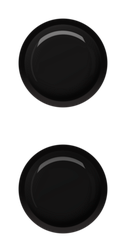
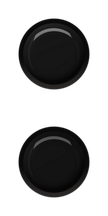
Push buttons with the green LED ring everywhere
CH1 / CH2 IN, STEREO LINK, POWER and DISPLAY are now round black push
buttons (ring lit = the left legend), and every push button (STEP,
STEEP, SHELF) has the green LED ring from Lindell STC-8, lit while the
button is in. Buttons are 12 px radius (as on STC-8) so the rings clear
the legends and dividers.

Claude-Session: https://claude.ai/code/session_01LNKzgqbrPXtjdBVktpSjEH

Changed region(s): [[0.1389, 0.0556, 0.8611, 0.4444], [0.1389, 0.5556, 0.8611, 0.9444]]

diff --git a/tools/render_assets.py b/tools/render_assets.py
@@ -57,7 +57,7 @@ PANEL = (2, 2, 1914, 368)
 
 LARGE_R = 37.0                  # gain / low cut
 SMALL_R = 23.5                  # freq / bandwidth / colour source / colour
-BUTTON_R = 15.0
+BUTTON_R = 12.0                 # push buttons (and the former toggles), each with a green LED ring
 TOGGLE_R = 18.5
 LAMP = (948.0, 245.0, 27.0)     # cx, cy, bezel radius
 
@@ -66,6 +66,7 @@ CH_X = {0: dict(lc=212.0, bands=[358.0, 506.0, 652.0, 800.0]),
 Y_GAIN, Y_FREQ, Y_BW = 80.0, 186.0, 313.0
 Y_LC, Y_COLSRC, Y_COLOUR = 80.0, 228.0, 313.0
 Y_STEP, Y_SHELF, Y_STEEP = 254.0, 147.0, 160.0
+# the switches are round black push buttons with the green LED ring (lit = the left legend)
 TOGGLES = {"ch1": (948.0, 48.0), "ch2": (948.0, 112.0), "link": (948.0, 176.0),
            "power": (948.0, 320.0), "display": (1801.0, 262.0)}
 # printed legends of each toggle: title, left position, right position
@@ -230,9 +231,10 @@ def misc_legends(L):
     # centre section
     for name, (x, y) in TOGGLES.items():
         title, left, right = TOGGLE_LEGENDS[name]
-        L.text(title, x, y - (30.0 if name == "power" else 27.0), TITLE * (0.9 if len(title) > 8 else 1.0))
-        L.text(left, x - 32.0 - 1.5 * (len(left) - 2), y, TITLE * 0.92)
-        L.text(right, x + 36.0, y, TITLE * 0.92)
+        L.text(title, x, y - (30.0 if name == "power" else 25.0), TITLE * (0.9 if len(title) > 8 else 1.0))
+        # side legends clear the button's LED ring (they scale with the word length)
+        L.text(left, x - 33.0 - 3.2 * (len(left) - 2), y, TITLE * 0.92)
+        L.text(right, x + 35.0 + 3.2 * (len(right) - 3), y, TITLE * 0.92)
     # dividers between the sections
     for x in DIVIDERS:
         L.line(x, 14.0, x, 356.0, 1.3)
@@ -370,8 +372,7 @@ def render_panel():
 
     large = [(k[3], k[4]) for k in knob_list() if k[5]]
     small = [(k[3], k[4]) for k in knob_list() if not k[5]]
-    buttons = [(b[2], b[3]) for b in button_list()]
-    toggles = list(TOGGLES.values())
+    buttons = [(b[2], b[3]) for b in button_list()] + list(TOGGLES.values())   # all push buttons
     for items, R_ in ((large, LARGE_R), (small, SMALL_R)):
         k = R_ / T.KNOB_R
         shadow += disc_shadow(items, R_ * 1.10, 10.0 * k, 9.0 * k, 0.16)   # short, soft pool
@@ -380,8 +381,6 @@ def render_panel():
         shadow += disc_shadow(items, R_ * 1.03, 0.6, 1.2, 0.55)
     shadow += disc_shadow(buttons, BUTTON_R * 1.05, 4.0, 4.0, 0.40)
     shadow += disc_shadow(buttons, BUTTON_R * 1.02, 0.8, 1.2, 0.45)
-    shadow += disc_shadow(toggles, TOGGLE_R * 0.80, 3.0, 2.5, 0.40)
-    shadow += disc_shadow(toggles, TOGGLE_R * 0.84, 0.5, 1.0, 0.40)
     shadow += disc_shadow([(LAMP[0], LAMP[1])], LAMP[2] * 0.97, 3.0, 3.0, 0.40)
     logos = list(T.place_logos(rgb, shadow))
     rgb *= (1 - 0.66 * np.clip(shadow, 0, 1))[..., None]
@@ -512,7 +511,7 @@ def render_small_knob_strip():
 # PUSH BUTTONS - glossy moulded caps in a hole in the panel, 2 frames:
 # 0 = out, 1 = pushed in (sits deeper: the hole's edge shades its top)
 # --------------------------------------------------------------------------
-BUTTON_FRAME = 126
+BUTTON_FRAME = int(round((BUTTON_R + 6.0) * SCALE)) * 2
 BUTTON_COLOURS = {"red": (196, 26, 20), "black": (24, 23, 23), "white": (226, 226, 220)}
 
 
@@ -555,6 +554,51 @@ def render_button_strips():
         for i in range(2):
             strip.paste(button_frame(colour, i == 1), (0, i * BUTTON_FRAME))
         strip.save(os.path.join(OUT, f"button_{colour}_strip.png"), optimize=True)
+
+
+# --------------------------------------------------------------------------
+# LED RING round every push button (as on Lindell STC-8), 2 frames: 0 = off, 1 = lit
+# --------------------------------------------------------------------------
+RING_R0, RING_R1 = BUTTON_R * 1.08, BUTTON_R * 1.26
+RING_FRAME = int(round((RING_R1 + 9.0) * SCALE)) * 2
+
+
+def ring_frame(lit, ss=4):
+    """the LED ring set into the panel round a push button: a frosted light-pipe,
+    dark smoked green when off, glowing green when the button is in"""
+    N = RING_FRAME * ss
+    c = (N - 1) / 2.0
+    yy, xx = np.mgrid[0:N, 0:N].astype(np.float32)
+    px = SCALE * ss                                     # px per photo px
+    r = np.hypot(xx - c, yy - c) / px                   # photo px
+    v = (yy - c) / px / RING_R1                         # -1 top .. +1 bottom
+    mid, half = 0.5 * (RING_R0 + RING_R1), 0.5 * (RING_R1 - RING_R0)
+    t = np.clip(1 - np.abs(r - mid) / half, 0, 1)       # 0 at the edges .. 1 on the centre line
+    ring = smoothstep(0.0, 0.35, t)
+    groove = smoothstep(0.0, 0.25, np.clip(1 - np.abs(r - mid) / (half + 0.8), 0, 1)) * (1 - ring)
+    if not lit:
+        col = np.dstack([28 + 10 * t, 42 + 16 * t, 34 + 11 * t])
+        col *= (1.0 - 0.35 * smoothstep(-0.2, -1.0, v))[..., None]               # shaded at the top lip
+        col += (14 * np.exp(-((r - (RING_R0 + 0.35 * half)) / 0.35) ** 2) * smoothstep(0.0, 0.9, v))[..., None]
+        alpha = np.clip(0.92 * ring + 0.30 * groove, 0, 1)
+        col = col * ring[..., None] + np.array([16, 16, 15], np.float32) * (1 - ring[..., None])
+    else:
+        core = t ** 1.6
+        col = 0.6 * np.dstack([40 + 150 * core, 215 + 40 * core, 105 + 120 * core])   # 40 % below full brightness
+        halo = ndimage.gaussian_filter(ring, 2.6 * px) * 1.9 + ndimage.gaussian_filter(ring, 0.9 * px) * 0.9
+        glow_a = np.clip(halo, 0, 1) * (1 - ring) * 0.75 * 0.6
+        alpha = np.clip(ring + glow_a, 0, 1)
+        glow_col = 0.6 * np.array([60, 255, 120], np.float32)
+        col = (col * ring[..., None] + glow_col * glow_a[..., None]) / np.maximum(alpha, 1e-4)[..., None]
+    img = T.to_img(col, alpha).resize((RING_FRAME, RING_FRAME), Image.LANCZOS)
+    return T.photo_finish(img, blur=0.35, grain=0.0, seed=7 + int(lit))
+
+
+def render_ring_strip():
+    strip = Image.new("RGBA", (RING_FRAME, RING_FRAME * 2))
+    for i in range(2):
+        strip.paste(ring_frame(i == 1), (0, i * RING_FRAME))
+    strip.save(os.path.join(OUT, "button_ring_strip.png"), optimize=True)
 
 
 
@@ -637,6 +681,7 @@ def write_layout_header():
         f"    constexpr float largeKnobR = {LARGE_R}f, smallKnobR = {SMALL_R}f;",
         f"    constexpr int buttonFrame = {BUTTON_FRAME};",
         f"    constexpr float buttonR = {BUTTON_R}f;",
+        f"    constexpr int ringFrame = {RING_FRAME};",
         f"    constexpr int toggleFrame = {T.TOGGLE_FRAME};",
         f"    constexpr float toggleR = {TOGGLE_R}f;",
         f"    constexpr int lampFrame = {T.LAMP_FRAME};",
@@ -689,8 +734,9 @@ if __name__ == "__main__":
     if "smallknob" in what:
         render_small_knob_strip(); print("small knob")
         render_small_knob_strip(); print("small knob")
+    if "all" in what or "small" in what or "buttons" in what:
+        render_button_strips(); render_ring_strip(); print("buttons + LED ring")
     if "all" in what or "small" in what:
-        render_button_strips(); print("buttons")
         T.render_toggle_strip(); print("toggle")
         T.render_lamp_strip(); print("lamp")
     write_layout_header()

diff --git a/Source/PluginEditor.cpp b/Source/PluginEditor.cpp
@@ -208,6 +208,8 @@ HeronEQAudioProcessorEditor::HeronEQAudioProcessorEditor (HeronEQAudioProcessor&
     buttonRed   = strip (BinaryData::button_red_strip_png, BinaryData::button_red_strip_pngSize, bf, bf, 2);
     buttonBlack = strip (BinaryData::button_black_strip_png, BinaryData::button_black_strip_pngSize, bf, bf, 2);
     buttonWhite = strip (BinaryData::button_white_strip_png, BinaryData::button_white_strip_pngSize, bf, bf, 2);
+    buttonRing  = strip (BinaryData::button_ring_strip_png, BinaryData::button_ring_strip_pngSize,
+                         layout::ringFrame, layout::ringFrame, 2);
     toggleStrip = strip (BinaryData::toggle_strip_png, BinaryData::toggle_strip_pngSize, tf, tf, 2);
     lampStrip   = strip (BinaryData::lamp_strip_png, BinaryData::lamp_strip_pngSize, lf, lf, 2);
 
@@ -228,7 +230,7 @@ HeronEQAudioProcessorEditor::HeronEQAudioProcessorEditor (HeronEQAudioProcessor&
     }
     for (const auto& t : layout::toggles)
     {
-        auto toggle = std::make_unique<FilmstripToggle> (toggleStrip);
+        auto toggle = std::make_unique<StripButton> (buttonBlack);       // ring lit = the left legend
         addAndMakeVisible (*toggle);
         if (juce::String (t.name) == "ch1") ch1Att = std::make_unique<ButtonAtt> (proc.apvts, ids::channelIn (0), *toggle);
         if (juce::String (t.name) == "ch2") ch2Att = std::make_unique<ButtonAtt> (proc.apvts, ids::channelIn (1), *toggle);
@@ -369,10 +371,31 @@ void HeronEQAudioProcessorEditor::paint (juce::Graphics& g)
         paintDisplay (g);
     }
 
+    for (auto& b : buttons) drawRing (g, b.info->x, b.info->y, b.button->getToggleState());
+    for (auto& t : toggles) drawRing (g, t.info->x, t.info->y, t.toggle->getToggleState());
+    ringState = currentRingState();
+
     const float lw = (float) layout::lampFrame / layout::assetScale;
     const auto lr = panelRect (layout::lampX, layout::lampY, lw, lw);
     const int lpx = juce::roundToInt (lr.getWidth() * ps);
     drawExact (g, lampStrip.frame (lampOn ? 1 : 0, lpx, lpx), lr.withSize ((float) lpx / ps, (float) lpx / ps));
+}
+
+void HeronEQAudioProcessorEditor::drawRing (juce::Graphics& g, float cx, float cy, bool lit)
+{
+    const float ps = pixelScale (g);
+    const float rw = (float) layout::ringFrame / layout::assetScale;
+    const auto r = panelRect (cx, cy, rw, rw);
+    const int px = juce::roundToInt (r.getWidth() * ps);
+    drawExact (g, buttonRing.frame (lit ? 1 : 0, px, px), r.withSizeKeepingCentre ((float) px / ps, (float) px / ps));
+}
+
+juce::uint64 HeronEQAudioProcessorEditor::currentRingState() const
+{
+    juce::uint64 bits = 0; int i = 0;
+    for (auto& b : buttons) bits |= (juce::uint64) (b.button->getToggleState() ? 1 : 0) << i++;
+    for (auto& t : toggles) bits |= (juce::uint64) (t.toggle->getToggleState() ? 1 : 0) << i++;
+    return bits;
 }
 
 void HeronEQAudioProcessorEditor::resized()
@@ -387,7 +410,7 @@ void HeronEQAudioProcessorEditor::resized()
     for (auto& b : buttons)
         place (*b.button, b.info->x, b.info->y, layout::buttonFrame);
     for (auto& t : toggles)
-        place (*t.toggle, t.info->x, t.info->y, layout::toggleFrame);
+        place (*t.toggle, t.info->x, t.info->y, layout::buttonFrame);
 }
 
 void HeronEQAudioProcessorEditor::timerCallback()
@@ -398,6 +421,7 @@ void HeronEQAudioProcessorEditor::timerCallback()
 
     const bool power = proc.apvts.getRawParameterValue (ids::bypass)->load() < 0.5f;
     powerSwitch->setToggleState (power, juce::dontSendNotification);
+    if (currentRingState() != ringState) repaint();      // a button changed: its LED ring follows
 
     if (displayOn)
     {

diff --git a/Source/PluginEditor.h b/Source/PluginEditor.h
@@ -82,17 +82,21 @@ private:
     using ButtonAtt = juce::AudioProcessorValueTreeState::ButtonAttachment;
 
     HeronEQAudioProcessor& proc;
-    ScaledStrip panel, windowImg, knobLarge, knobSmall, buttonRed, buttonBlack, buttonWhite, toggleStrip, lampStrip;
+    ScaledStrip panel, windowImg, knobLarge, knobSmall, buttonRed, buttonBlack, buttonWhite, buttonRing, toggleStrip, lampStrip;
 
     struct KnobSlot { const layout::Knob* info; std::unique_ptr<FilmstripKnob> knob; std::unique_ptr<SliderAtt> att; };
     struct ButtonSlot { const layout::Button* info; std::unique_ptr<StripButton> button; std::unique_ptr<ButtonAtt> att; };
-    struct ToggleSlot { const layout::Toggle* info; std::unique_ptr<FilmstripToggle> toggle; };
+    struct ToggleSlot { const layout::Toggle* info; std::unique_ptr<StripButton> toggle; };   // push buttons
     std::vector<KnobSlot> knobs;
     std::vector<ButtonSlot> buttons;
     std::vector<ToggleSlot> toggles;
     std::unique_ptr<ButtonAtt> ch1Att, ch2Att, linkAtt;
-    FilmstripToggle* powerSwitch = nullptr;
-    FilmstripToggle* displaySwitch = nullptr;
+    StripButton* powerSwitch = nullptr;
+    StripButton* displaySwitch = nullptr;
+    // green LED ring round every push button, lit while the button is in
+    void drawRing (juce::Graphics&, float cx, float cy, bool lit);
+    juce::uint64 ringState = 0;           // last drawn on/off pattern (repaint when it changes)
+    juce::uint64 currentRingState() const;
 
     // DISPLAY switch: shows / hides the analyser plate (saved with the plug-in state)
     bool displayOn = true;

diff --git a/Source/Layout.h b/Source/Layout.h
@@ -7,8 +7,9 @@ namespace layout
     constexpr float panelW = 1916.0f, panelH = 370.0f, assetScale = 3.0f;
     constexpr int largeKnobFrame = 264, smallKnobFrame = 168, knobFrames = 180;
     constexpr float largeKnobR = 37.0f, smallKnobR = 23.5f;
-    constexpr int buttonFrame = 126;
-    constexpr float buttonR = 15.0f;
+    constexpr int buttonFrame = 108;
+    constexpr float buttonR = 12.0f;
+    constexpr int ringFrame = 144;
     constexpr int toggleFrame = 144;
     constexpr float toggleR = 18.5f;
     constexpr int lampFrame = 300;
